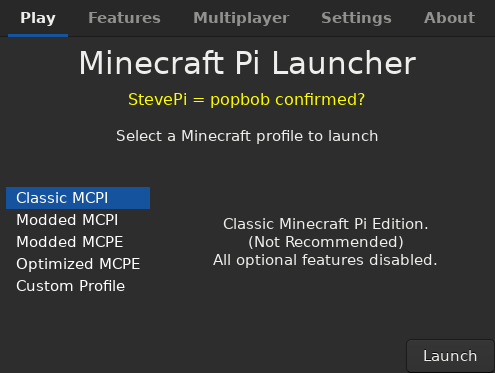
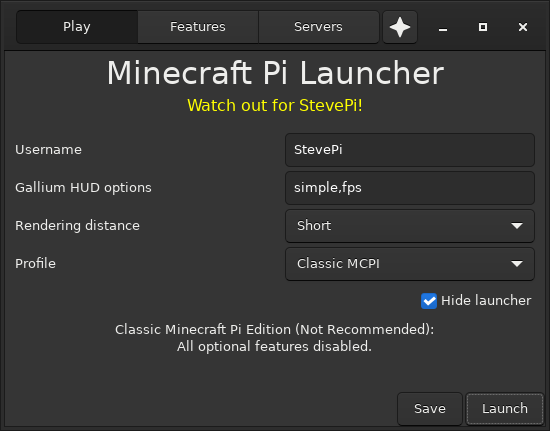
v0.12.0 I guess

diff --git a/src/include/config.h b/src/include/config.h
@@ -35,6 +35,7 @@ G_BEGIN_DECLS
 
 #define VALID_JSON_ARGS(dst, name, parent) \
 	(parent.node != NULL || dst != NULL || name != NULL || JSON_NODE_HOLDS_OBJECT(parent.node) || parent.obj == NULL)
+#define SAFE_ATOI(str) strtol(str ? str : "", NULL, 10)
 
 #define GMCPIL_GETTER(name) gchar* gmcpil_config_get_ ## name (GMCPILConfig* self) \
 { \
@@ -51,7 +52,26 @@ G_BEGIN_DECLS
 	return; \
 }
 
+#define GMCPIL_INT_GETTER(name) gint gmcpil_config_get_ ## name (GMCPILConfig* self) \
+{ \
+	GMCPILConfigPrivate* private; \
+	private = GMCPIL_CONFIG_PRIVATE(self); \
+	return SAFE_ATOI(private->name); \
+}
+
+#define GMCPIL_INT_SETTER(name) void gmcpil_config_set_ ## name (GMCPILConfig* self, const gint name) \
+{ \
+	char* tmp; \
+	GMCPILConfigPrivate* private; \
+	asprintf(&tmp, "%i", name); \
+	private = GMCPIL_CONFIG_PRIVATE(self); \
+	private->name = g_strdup((gchar*)tmp); \
+	free(tmp); \
+	return; \
+}
+
 #define GMCPIL_GETTER_SETTER(name) GMCPIL_GETTER(name); GMCPIL_SETTER(name);
+#define GMCPIL_INT_GETTER_SETTER(name) GMCPIL_INT_GETTER(name); GMCPIL_INT_SETTER(name);
 
 #define GMCPIL_GLIB_PROPERTY(id, name, description, prop) \
 	pspec = g_param_spec_string(id, name, description, NULL, G_PARAM_READWRITE); \
@@ -84,16 +104,18 @@ GMCPILConfig* gmcpil_config_new(gchar* filename);
 void gmcpil_config_set_username(GMCPILConfig* self, const gchar* username);
 void gmcpil_config_set_features(GMCPILConfig* self, const gchar* features);
 void gmcpil_config_set_distance(GMCPILConfig* self, const gchar* distance);
-void gmcpil_config_set_last_profile(GMCPILConfig* self, const gchar* last_profile);
+void gmcpil_config_set_last_profile(GMCPILConfig* self, const gint last_profile);
 void gmcpil_config_set_hud(GMCPILConfig* self, const gchar* hud);
 void gmcpil_config_set_hide(GMCPILConfig* self, const gchar* hide);
+void gmcpil_config_set_last_featc(GMCPILConfig* self, const gint last_featc);
 
 gchar* gmcpil_config_get_username(GMCPILConfig* self);
 gchar* gmcpil_config_get_features(GMCPILConfig* self);
 gchar* gmcpil_config_get_distance(GMCPILConfig* self);
-gchar* gmcpil_config_get_last_profile(GMCPILConfig* self);
+gint gmcpil_config_get_last_profile(GMCPILConfig* self);
 gchar* gmcpil_config_get_hud(GMCPILConfig* self);
 gchar* gmcpil_config_get_hide(GMCPILConfig* self);
+gint gmcpil_config_get_last_featc(GMCPILConfig* self);
 
 int gmcpil_config_save(GMCPILConfig* self);
 

diff --git a/src/features.c b/src/features.c
@@ -67,9 +67,9 @@ static int get_features()
 static int set_feature_envs(int feat)
 {
 	int i = 0;
-	static int sz[3] = {1, 1, 1};
-	static int len[3] = {0, 0, 0};
-	static int tmp[3] = {0, 0, 0};
+	int sz[3] = {1, 1, 1};
+	int len[3] = {0, 0, 0};
+	int tmp[3] = {0, 0, 0};
 
 	while (i < 3)
 	{
@@ -78,16 +78,13 @@ static int set_feature_envs(int feat)
 			i++;
 			continue;
 		}
-		if (i == 2)
+		if (i == 2 && (FEAT_CMP(feat, "Fancy Graphics")
+			|| FEAT_CMP(feat, "Smooth Lighting")
+			|| FEAT_CMP(feat, "Animated Water")
+			|| FEAT_CMP(feat, "Disable gui_blocks Atlas")))
 		{
-			if (FEAT_CMP(feat, "Fancy Graphics")
-				|| FEAT_CMP(feat, "Smooth Lighting")
-				|| FEAT_CMP(feat, "Animated Water")
-				|| FEAT_CMP(feat, "Disable gui_blocks Atlas"))
-			{
-				i++;
-				continue;
-			}
+			i++;
+			continue;
 		}
 		if (FEAT_INT(feat) == TRUE || (i >= 2 && i <= 3 && FEAT_CMP(feat, "Force Mob Spawning")))
 		{
@@ -178,6 +175,7 @@ static void toggle_cb(__attribute__((unused)) GtkWidget* check, void* udata)
 TAB(Features, features_cb, {
 	int i = 0;
 	int last_profile;
+	int last_featc;
 	char* tmp;
 	char* features_buff;
 	GtkWidget* feature_check;
@@ -187,6 +185,8 @@ TAB(Features, features_cb, {
 
 	featc = 0;
 	featc = get_features();
+	last_featc = gmcpil_config_get_last_featc(config);
+	last_profile = gmcpil_config_get_last_profile(config);
 
 	features_envs[1] = (char*)malloc(1);
 	features_envs[2] = (char*)malloc(1);
@@ -202,7 +202,7 @@ TAB(Features, features_cb, {
 	if (features_buff != NULL)
 	{
 		i = 0;
-		while (i < featc)
+		while (i < last_featc)
 		{
 			FEAT_BOOL(i) = FALSE;
 			i++;
@@ -210,7 +210,7 @@ TAB(Features, features_cb, {
 
 		i = 0;
 		tmp = strtok(features_buff, "|");
-		while (tmp != NULL && i < featc)
+		while (tmp != NULL && i < last_featc)
 		{
 			feature = get_feature(tmp);
 			if (feature != NULL)
@@ -244,8 +244,8 @@ TAB(Features, features_cb, {
 	}
 
 	features_cb(NULL, (void*)TRUE);
+	gmcpil_config_set_last_featc(config, featc);
 	gmcpil_config_set_features(config, features_envs[4]);
-	last_profile = SAFE_ATOI(gmcpil_config_get_last_profile(config));
 	setenv("MCPI_FEATURE_FLAGS", features_envs[last_profile], 1);
 	gtk_container_add(GTK_CONTAINER(scroll), vbox);
 	gtk_box_pack_start(GTK_BOX(tab), scroll, TRUE, TRUE, 0);

diff --git a/src/play.c b/src/play.c
@@ -67,21 +67,15 @@ static int get_distance(char* str)
 	return -1;
 }
 
-static void settings_cb(__attribute__((unused)) GtkWidget* button, void* udata)
+static void settings_cb(__attribute__((unused)) GtkWidget* button, __attribute__((unused)) void* udata)
 {
 	int profile;
-	char tmp[2] = {0x00, 0x00};
 	const char* username;
 	const char* distance;
 	const char* hud;
 	gboolean hide;
 	GtkEntryBuffer* username_buff;
 	GtkEntryBuffer* hud_buff;
-
-	if ((int)udata == TRUE)
-	{
-		goto profile;
-	}
 
 	username_buff = gtk_entry_get_buffer(GTK_ENTRY(settings_box.username_entry));
 	hud_buff = gtk_entry_get_buffer(GTK_ENTRY(settings_box.hud_entry));
@@ -106,12 +100,10 @@ static void settings_cb(__attribute__((unused)) GtkWidget* button, void* udata)
 		gmcpil_config_set_hide(config, "FALSE");
 	}
 
-profile:
 	profile = gtk_combo_box_get_active(GTK_COMBO_BOX(settings_box.profile_combo));
 	setenv("MCPI_FEATURE_FLAGS", features_envs[profile], 1);
-	tmp[0] = profile + 0x30;
 
-	gmcpil_config_set_last_profile(config, tmp);
+	gmcpil_config_set_last_profile(config, profile);
 	gmcpil_config_save(config);
 	return;
 }
@@ -129,7 +121,7 @@ static void launch_cb(__attribute__((unused)) GtkWidget* button, __attribute__((
 	GPid pid;
 	GError* err = NULL;
 
-	settings_cb(NULL, (void*)(intptr_t)TRUE);
+	settings_cb(NULL, NULL);
 	g_spawn_async(NULL, argv, NULL, G_SPAWN_DO_NOT_REAP_CHILD | G_SPAWN_SEARCH_PATH, NULL, NULL, &pid, &err);
 
 	if (err != NULL)
@@ -226,7 +218,7 @@ TAB(Play, settings_cb, {
 	profile_hbox = gtk_box_new(GTK_ORIENTATION_HORIZONTAL, 0);
 	profile_label = gtk_label_new("Profile");
 	profile_combo = gtk_combo_box_text_new();
-	last_profile = SAFE_ATOI(gmcpil_config_get_last_profile(config));
+	last_profile = gmcpil_config_get_last_profile(config);
 	while (i < 5)
 	{
 		gtk_combo_box_text_append_text(GTK_COMBO_BOX_TEXT(profile_combo), profile_names[i]);

diff --git a/src/config.c b/src/config.c
@@ -20,6 +20,8 @@
  * 
  */
 
+#define _GNU_SOURCE /* Required for asprintf */
+
 #include <stdio.h>
 #include <string.h>
 
@@ -35,6 +37,7 @@ struct __attribute__((packed)) GMCPILConfigPrivate
 	gchar* last_profile;
 	gchar* hud;
 	gchar* hide;
+	gchar* last_featc;
 	gchar* filename;
 };
 
@@ -47,6 +50,7 @@ enum
 	PROP_LAST_PROFILE,
 	PROP_HUD,
 	PROP_HIDE,
+	PROP_LAST_FEATC,
 	PROP_LAST
 };
 
@@ -72,6 +76,7 @@ static void gmcpil_config_class_init(GMCPILConfigClass* klass)
 	GMCPIL_GLIB_PROPERTY("last_profile", "Last profile", "Last selected profile", PROP_LAST_PROFILE);
 	GMCPIL_GLIB_PROPERTY("hud", "Gallium HUD", "Gallium HUD options", PROP_HUD);
 	GMCPIL_GLIB_PROPERTY("hide", "Hide launcher", "Hide launcher on launch", PROP_HIDE);
+	GMCPIL_GLIB_PROPERTY("last_featc", "Last feature count", "Last MCPI-Reborn feature count", PROP_LAST_FEATC);
 	return;
 }
 
@@ -112,9 +117,10 @@ static void gmcpil_config_finalize(GObject* obj)
 GMCPIL_GETTER_SETTER(username);
 GMCPIL_GETTER_SETTER(features);
 GMCPIL_GETTER_SETTER(distance);
-GMCPIL_GETTER_SETTER(last_profile);
+GMCPIL_INT_GETTER_SETTER(last_profile);
 GMCPIL_GETTER_SETTER(hud);
 GMCPIL_GETTER_SETTER(hide);
+GMCPIL_INT_GETTER_SETTER(last_featc);
 
 static void gmcpil_config_set_property(GObject* obj, guint prop_id, const GValue* value, GParamSpec* pspec)
 {

diff --git a/src/mcpil.c b/src/mcpil.c
@@ -91,7 +91,6 @@ void activate_cb(GtkApplication* app, __attribute__((unused)) void* udata)
 	Play_tab(stack);
 	Features_tab(stack);
 	Servers_tab(stack);
-	//Settings_tab(stack);
 
 	gtk_box_pack_start(GTK_BOX(switcher_box), switcher, TRUE, FALSE, 0);
 	gtk_box_pack_end(GTK_BOX(switcher_box), about_button, TRUE, FALSE, 2);
@@ -116,7 +115,7 @@ int main(int argc, char* argv[])
 	/* This is cursed, but it works:tm: */
 	setenv("GTK_THEME", "Adwaita:dark", 1);
 
-	asprintf(&config_path, "%s/.minecraft-pi/gmcpil.json", getenv("HOME"));
+	asprintf(&config_path, "%s/.gmcpil.json", getenv("HOME"));
 	config = gmcpil_config_new(config_path);
 	free(config_path);
 

diff --git a/src/include/mcpil.h b/src/include/mcpil.h
@@ -27,7 +27,6 @@
 #include <config.h>
 
 #define STR(str) #str
-#define SAFE_ATOI(str) strtol(str ? str : "", NULL, 10)
 
 #define FEAT_BOOL(i) (features[i][0])
 #define FEAT_INT(i) ((int)features[i][0])
@@ -48,7 +47,6 @@
 	g_signal_connect(button, "clicked", G_CALLBACK(button_cb), cb_udata); \
 	return tab; \
 }
-//gtk_notebook_append_page(GTK_NOTEBOOK(notebook), tab, gtk_label_new(STR(name_str)));
 
 #define GMCPIL_REPO_URL "https://github.com/MCPI-Revival/gMCPIL"
 #define GMCPIL_COPYRIGHT "Copyright 2021 MCPI-Revival contributors"
